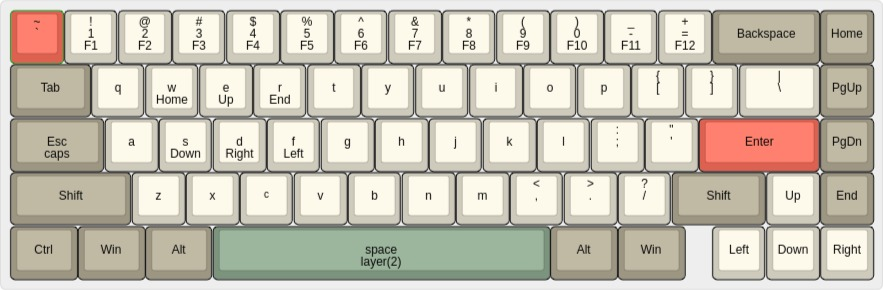
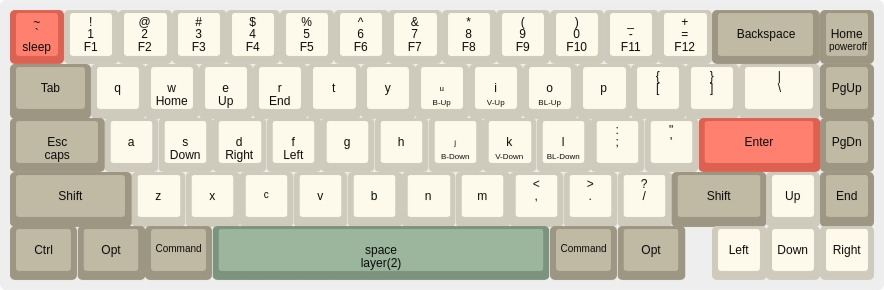
commit 10

diff --git a/template/keymap.c b/template/keymap.c
@@ -1,25 +1,28 @@
 #include QMK_KEYBOARD_H
 
-
 // Layer Names
 #define Base_layer 0
 #define Fn_layer 1
+#define Noooooo KC_NO
+#define SPACE LT(Fn_layer, KC_SPC)
+#define KC_VUP KC__VOLUP
+#define KC_VDOW KC__VOLDOWN
 
 const uint16_t PROGMEM keymaps[][MATRIX_ROWS][MATRIX_COLS] = {
   [Base_layer] = LAYOUT_65_ansi_blocker(
   KC_GRV,  KC_1,    KC_2,    KC_3,    KC_4,    KC_5,    KC_6,    KC_7,    KC_8,    KC_9,    KC_0,    KC_MINS, KC_EQL,  KC_BSPC, KC_HOME,
   KC_TAB,  KC_Q,    KC_W,    KC_E,    KC_R,    KC_T,    KC_Y,    KC_U,    KC_I,    KC_O,    KC_P,    KC_LBRC, KC_RBRC, KC_BSLS, KC_PGUP,
   KC_ESC,  KC_A,    KC_S,    KC_D,    KC_F,    KC_G,    KC_H,    KC_J,    KC_K,    KC_L,    KC_SCLN, KC_QUOT, KC_ENT,           KC_PGDN,
-  KC_LSFT, KC_Z,    KC_X,    KC_C,    KC_V,    KC_B,    KC_N,    KC_M,    KC_COMM, KC_DOT,  KC_SLSH, KC_RSFT,          KC_UP,   KC_END,
-  KC_LCTL, KC_LALT, KC_LGUI,                   LT(Fn_layer, KC_SPC),                        KC_RGUI, KC_RALT, KC_LEFT, KC_DOWN, KC_RGHT
+  KC_LSFT, KC_Z,    KC_X,    KC_C,    KC_V,    KC_B,    KC_N,    KC_M,    KC_COMM, KC_DOT,  KC_SLSH, KC_RSFT,           KC_UP,   KC_END,
+  KC_LCTL, KC_LALT, KC_LGUI,                            SPACE,                              KC_RGUI, KC_RALT, KC_LEFT, KC_DOWN, KC_RGHT
   ),
 
   [Fn_layer] = LAYOUT_65_ansi_blocker(
-  _______, KC_F1,   KC_F2,   KC_F3,   KC_F4,   KC_F5,   KC_F6,   KC_F7,   KC_F8,   KC_F9,   KC_F10,  KC_F11,  KC_F12,  _______, _______,
-  _______, _______, _______, _______, _______, _______, _______, _______, _______, _______, _______, _______, _______, _______, _______,
-  _______, _______, _______, KC_UP,   _______, _______, _______, _______, _______, _______, _______, _______, _______,          _______,
-  _______, _______, KC_LEFT, KC_DOWN, KC_RGHT, _______, _______, _______, _______, _______, _______, _______,          _______, _______,
-  _______, _______, _______,                   _______,                                     _______, _______, _______, _______, _______
+  KC_SLEP, KC_F1,   KC_F2,   KC_F3,   KC_F4,   KC_F5,   KC_F6,   KC_F7,   KC_F8,   KC_F9,   KC_F10,  KC_F11,  KC_F12,  Noooooo, KC_PWR,
+  Noooooo, Noooooo, Noooooo, Noooooo, Noooooo, Noooooo, Noooooo, Noooooo, KC_VUP,  KC_BRIU, BL_INC,  Noooooo, Noooooo, Noooooo, Noooooo,
+  KC_CAPS, Noooooo, Noooooo, KC_UP,   Noooooo, Noooooo, Noooooo, Noooooo, KC_VDOW, KC_BRID, BL_DEC,  Noooooo, Noooooo,          Noooooo,
+  Noooooo, Noooooo, KC_LEFT, KC_DOWN, KC_RGHT, Noooooo, Noooooo, Noooooo, Noooooo, Noooooo, Noooooo, Noooooo,          Noooooo, Noooooo,
+  Noooooo, Noooooo, Noooooo,                            Noooooo,                            Noooooo, Noooooo, Noooooo, Noooooo, Noooooo
   )
 };
 

diff --git a/template/config.h b/template/config.h
@@ -12,7 +12,6 @@
 // tap anyway, even after TAPPING_TERM, if there was no other key interruption between press and release
 #define RETRO_TAPPING
 
-
 // makes it possible to do rolling combos (zx) with keys that convert to other keys on hold, by enforcing the TAPPING_TERM for both keys.
 #define IGNORE_MOD_TAP_INTERRUPT
 

diff --git a/qmk/qmk.md b/qmk/qmk.md
@@ -12,9 +12,10 @@ $ `git clone git@github.com:banana-llarma/the-lochlan-keyboard-project.git ~/the
 - link the template  
 $ `mkdir ~/qmk_firmware/keyboards/kbdfans/kbd67/rev2/keymaps/the-lochlan-keyboard`
 
-$ `ln -f ~/the-lochlan-keyboard-project.git ~/qmk_firmware/keyboards/kbdfans/kbd67/rev2/keymaps/the-lochlan-keyboard`
+$ `ln -f ~/the-lochlan-keyboard ~/qmk_firmware/keyboards/kbdfans/kbd67/rev2/keymaps/the-lochlan-keyboard`
 
 - now if you edit in the keyboard in the template file  
 - to flash the new keyboard settings run  
+- when flashing you have to be in the `~/qmk_firmware` directory
 $ `qmk flash -kb kbdfans/kbd67/rev2 -km the-lochlan-keyboard`
 - if that doesn't  work then add sudo to the start
